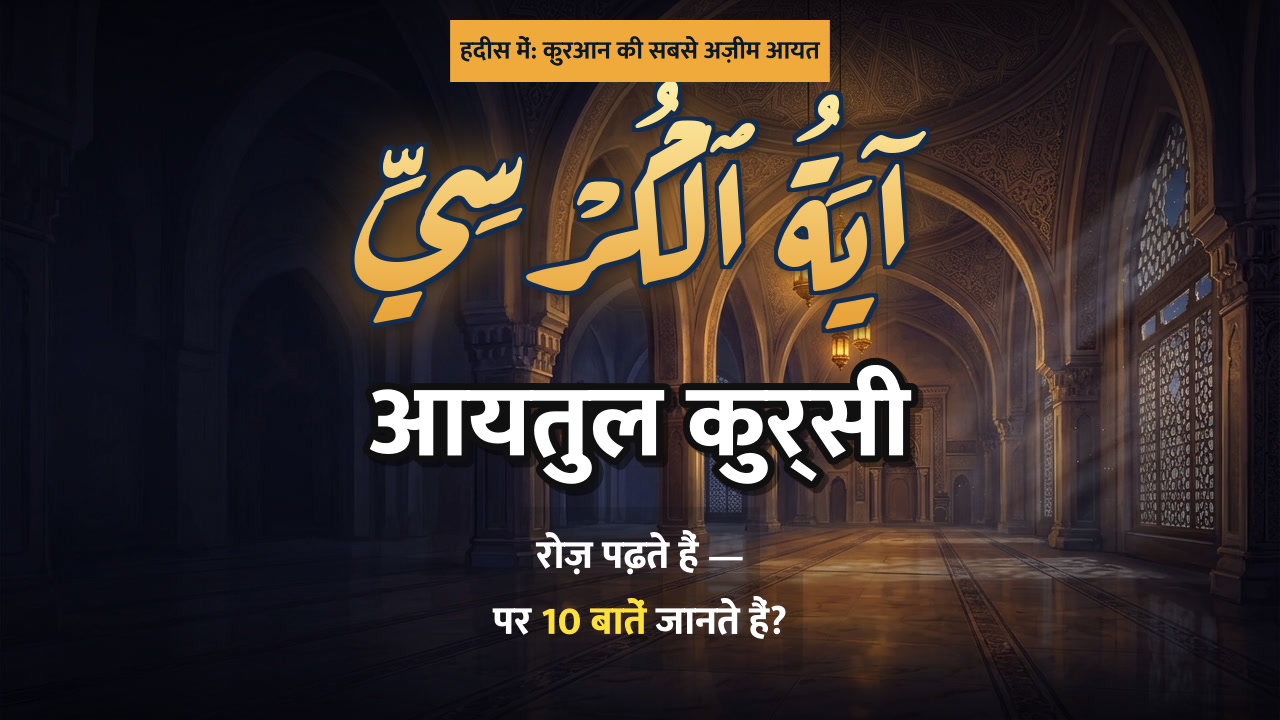
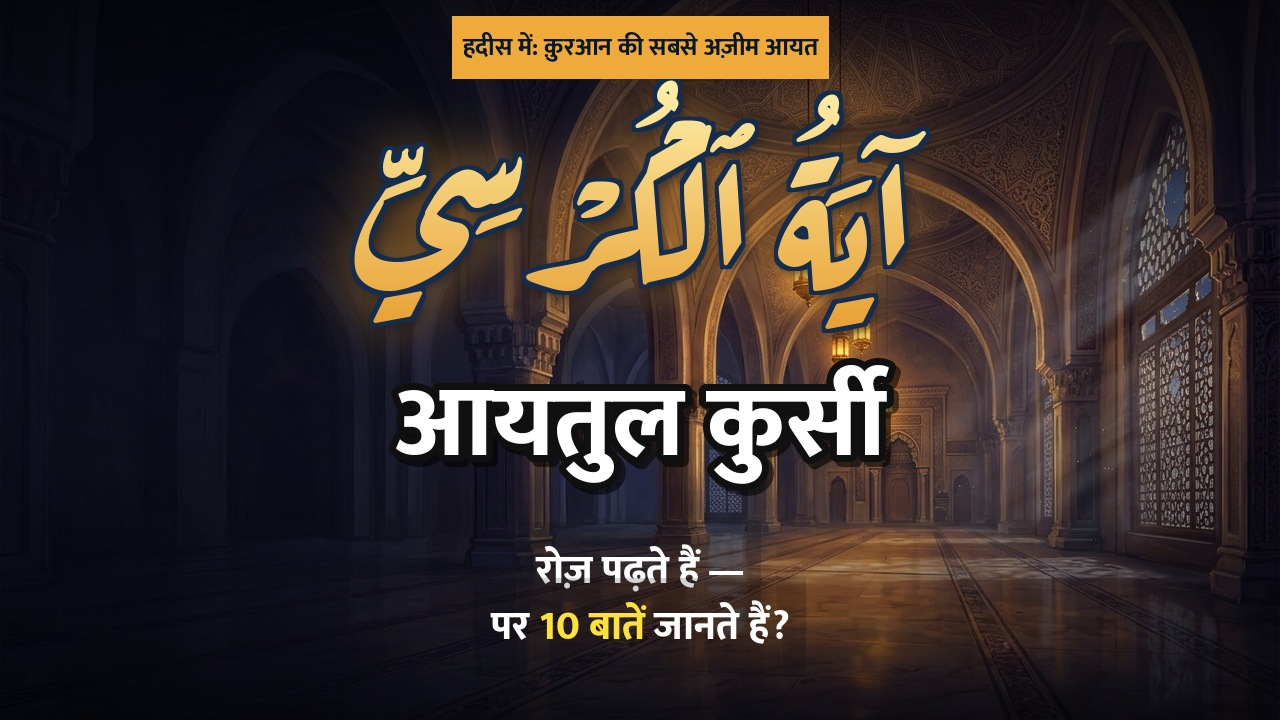
noor 002: Hindi thumbnail and description fix, Munshi final notes
Claude-Session: https://claude.ai/code/session_016G7EQZHKnppnYs11zXgFJ5

diff --git a/channels/noor-e-raah/stories/002_ayatul-kursi/long/review/final_review.md b/channels/noor-e-raah/stories/002_ayatul-kursi/long/review/final_review.md
@@ -1,0 +1,10 @@
+# Final review - 002 Ayatul Kursi long (Munshi, 2026-10-29)
+VERDICT: FIX (not uploaded)
+
+Verified OK: 1920x1080 / 30 fps / H264+AAC / 332.3 s; -14.2 LUFS, true peak -1.6 dBFS; no .part file; Arabic ASS text == sources.json (whole ayah 4 lines joined == Tanzil string, incl. yaودُهُۥ); whole-ayah frame (35-44 s) clean, 4 lines above subtitles; ring and bedtime images clean (lamp out, no person); chapters match timeline (0:00, 0:16, 0:35 ... 4:45); music credits (Soaring, River Flute) + swoosh/ambience CC0 in assets_license.csv; name_guard OK; no playlist_id; category 27, kids false; srt 34 cues.
+
+1. MAJOR - Hindi burned subtitles/cards are mis-shaped (libass): i-matra misplaced or lost ("बिस्तर" shows as "बस्ितर", "कि" shows as "क" + gap in frames at 262 s and 193 s, "मुताबिक़" -> "मुताबक्कि़" at 180 s), halant visible in "अल्लाह", "सल्लल्लाहु", "कुर्सी" (title card too). Wrong spelling on screen across the whole video. Fix (free): find why Mukta Bold/libass does not shape (font file or libass build; test one ASS line with another Devanagari font e.g. Noto Sans Devanagari / ass shaping), re-render captions text, re-measure.
+2. MAJOR - two-line subtitle boxes overlap (180 s: line-1 and line-2 background boxes overlap vertically; also 262 s three lines wide, very long - 3 lines of ~75 chars). Shorten/wrap at ~2 lines, line spacing so boxes do not overlap.
+3. MINOR - thumbnail chip and hook: "क़ुरआन" nuqta lost ("कुरआन"), halant visible in "कुर्सी"; same shaping cause as item 1.
+4. MINOR - metadata: description has English "Images and voices: AI-generated." (channel note asked Hindi line 'Is video ke drishya aur awaaz AI ki madad se banaye gaye hain.'); contains_synthetic_media false per user decision.
+5. NOT DONE (blocked by FIX): Whisper spot-check of 5 lines, line 57 listening, swoosh/gap audio check. Do them on the re-rendered video.

diff --git a/channels/noor-e-raah/log.md b/channels/noor-e-raah/log.md
@@ -57,3 +57,4 @@
 2026-10-29 | 002_ayatul-kursi | images R1 | FIX | 12 images clean (no person/text/domes); BLOCKER 12_bedtime_room_lamp has glass-chimney modern lamp -> crop out lamp or use 02 crop; minors: wall lantern in 04, 06 oversaturated; crops OK; review/images_review.md
 2026-10-30 | 002_ayatul-kursi | images R1 fix (Sanchalak) | BLOCKER 12_bedtime_room_lamp fixed free by crop (images.json rect), 10_ring_in_desert_b fy 0.72; MINOR items in carry_over.md | Rs0
 2026-10-30 | 002_ayatul-kursi | edit | Sampadak plan soft_glow/vignette 0.10/grain 1.5; layout bug (long ayah overlapped subtitles) fixed in noor_render.py ayah_lines | Rs0
+2026-10-29 | 002_ayatul-kursi | final R1 | FIX | Hindi subtitles/cards mis-shaped (i-matra misplaced/lost, visible halant) + overlapping 2-line subtitle boxes; Arabic==Tanzil, -14.2 LUFS, TP -1.6, chapters/credits OK; NOT uploaded | review/final_review.md

diff --git a/channels/noor-e-raah/stories/002_ayatul-kursi/long/output/metadata.md b/channels/noor-e-raah/stories/002_ayatul-kursi/long/output/metadata.md
@@ -45,7 +45,7 @@ MUSIC
   http://creativecommons.org/licenses/by/4.0/
 - Ambience: freesound.org (CC0)
 
-Fonts: Amiri, Mukta (SIL Open Font License). Images and voices: AI-generated.
+Fonts: Amiri, Mukta (SIL Open Font License). Images and voices: AI-generated. इस वीडियो के चित्र और आवाज़ें AI की मदद से बनाए गए हैं।
 
 #आयतुलकुर्सी #क़ुरआन #नूरएराह
 
